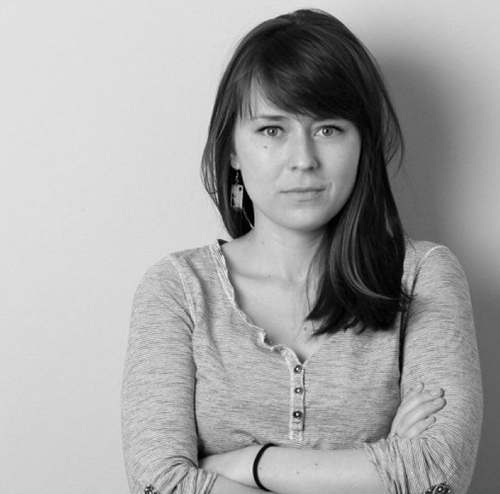
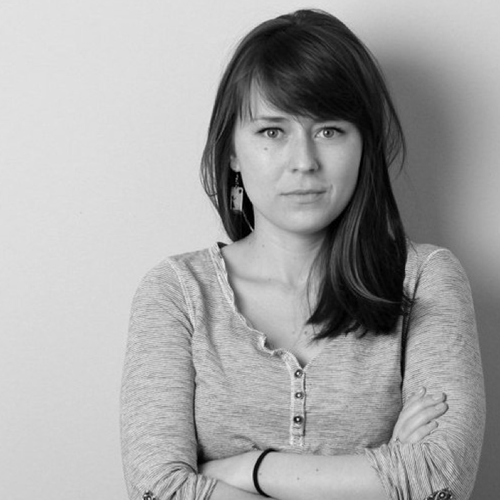
Add dragana, resize olesya

diff --git a/assets/style/_home.scss b/assets/style/_home.scss
@@ -60,6 +60,10 @@
             font-weight: bold;
         }
 
+        h4 {
+            text-align: center;
+        }
+
         img {
             width: 100%;
             border-radius: 50%;
